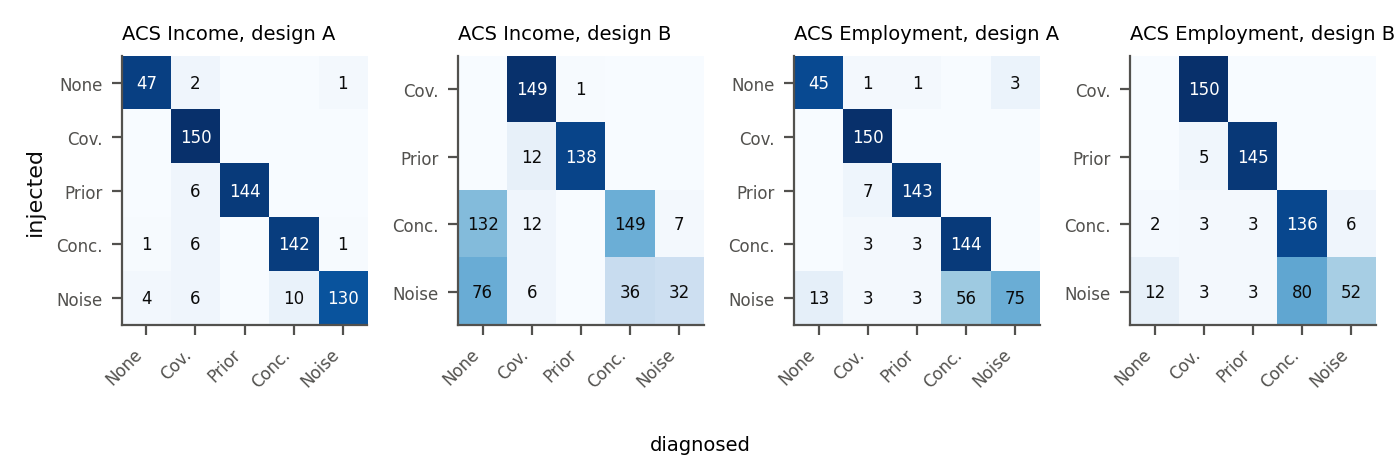
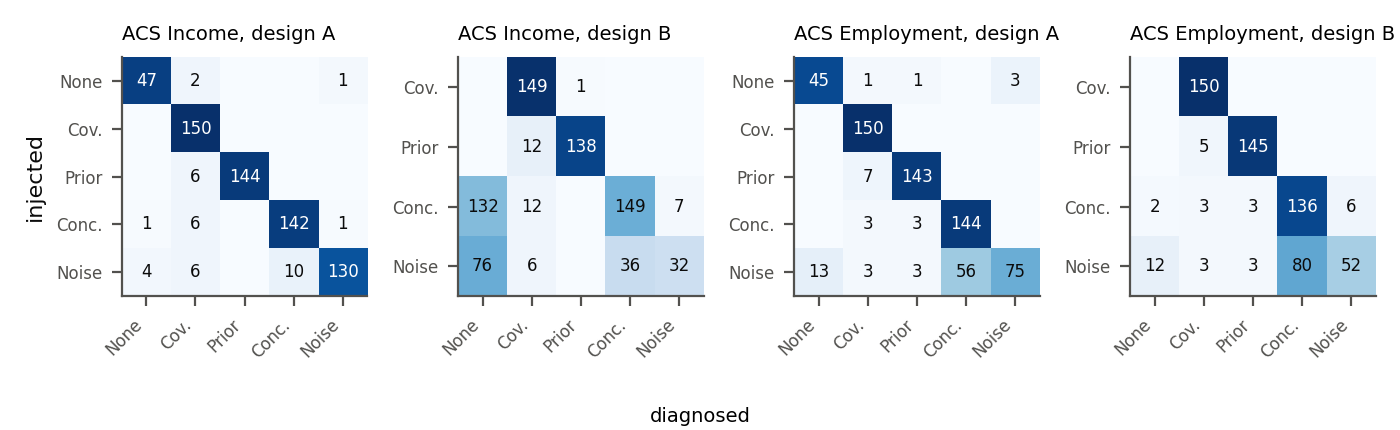
Paper build: generated keys and guards for the rewritten paper
- New keys: CLEAR-10 windows found by MMD alone, estimator error ranges,
  diagnosis false alarms by stage.
- Build fails if the paper's worded detector claims stop holding.
- Datasets table: ragged windows column that fits the text width;
  shorter timelines and confusion figures.

Claude-Session: https://claude.ai/code/session_01Q2jh3ncUT27YtGPEiV2BVS

diff --git a/examples/paper/build_artifacts.py b/examples/paper/build_artifacts.py
@@ -268,7 +268,7 @@ def datasets(R: Results) -> None:
         sizes = [nrows(w) for w in win.values()]
         c = lr["config"]
         if code in ("inc", "emp"):
-            ref, windows = "CA 2014", "CA 2015--19, 2021--23; four states 2014"
+            ref, windows = "CA 2014", "CA 2015--19 and 2021--23; TX, NY, FL, WA 2014"
             nfeat = len(c["features"]["numeric"]) + len(c["features"]["categorical"])
             classes = 2
         elif code == "gas":
@@ -288,7 +288,7 @@ def datasets(R: Results) -> None:
         ]) + " \\\\")
     write_table("tab_datasets", (
         "\\footnotesize\\setlength{\\tabcolsep}{2.5pt}\n"
-        "\\begin{tabular}{@{}llp{2.35cm}rrrrr@{}}\n\\toprule\n"
+        "\\begin{tabular}{@{}ll>{\\raggedright\\arraybackslash}p{2.45cm}rrrrr@{}}\n\\toprule\n"
         " & & & & & & \\multicolumn{2}{c}{Ref.\\ accuracy} \\\\\n\\cmidrule(l){7-8}\n"
         "Dataset & Reference & Windows & Rows & Inputs & Classes & LR & GB \\\\\n\\midrule\n"
         + "\n".join(rows) + "\n\\bottomrule\n\\end{tabular}\n"))
@@ -302,6 +302,7 @@ def window_keys(R: Results, code: str, model: str) -> None:
     alpha = d["config"]["alpha"]
     pre = code if model == "lr" else f"{code}-hgb"
     by_type: Dict[str, List[str]] = {}
+    mmd_only: List[str] = []
     for wname, w in d["windows"].items():
         k = f"{pre}-{wkey(code, wname)}"
         det = detections(w)
@@ -365,6 +366,13 @@ def window_keys(R: Results, code: str, model: str) -> None:
             R.add(f"{k}-nsensors", sum(v["n_drifted"] > 0 for v in sensors.values()))
         else:
             R.add(f"{k}-ndrift", w["localization"]["n_drifted_dimensions"])
+            # covariate verdicts that rest on the multivariate test alone: no
+            # single embedding dimension shifted significantly
+            if dg["drift_type"] == "covariate" and w["diagnosis"]["n_input_shift_dimensions"] == 0:
+                mmd_only.append(wlabel(code, wname).lstrip("b"))
+    if code == "clr":
+        R.add(f"{pre}-windownums-mmdonly", join(mmd_only) if mmd_only else "none")
+        R.add(f"{pre}-nwindows-mmdonly", len(mmd_only))
     for t, ws in by_type.items():
         R.add(f"{pre}-windows-{t.replace('_', '')}", join(ws))
         R.add(f"{pre}-windownums-{t.replace('_', '')}", join([w.lstrip("b") for w in ws]))
@@ -420,7 +428,7 @@ def real_table(R: Results) -> None:
 def timelines(R: Results) -> None:
     """Measured accuracy (both models) and the CBPE estimate (LR) over the windows of the four studies."""
     plt = mpl()
-    fig, axes = plt.subplots(2, 2, figsize=(6.6, 3.5))
+    fig, axes = plt.subplots(2, 2, figsize=(6.6, 2.95))
     for ax, code in zip(axes.flat, ("inc", "emp", "gas", "clr")):
         lr, gb = study(code, "lr"), study(code, "hgb")
         names = [k for k, w in lr["windows"].items() if w["analysis_type"] in ("control", "temporal")]
@@ -473,6 +481,9 @@ def estimators(R: Results) -> None:
             v = float(np.mean(pooled[t][e]))
             cells[e].append(v)
             R.add(f"est-bench-{t.replace('/', '').replace('_', '')}-{e}", pp(v, 2, sign=False))
+        vals = [float(np.mean(pooled[t][e])) for e, _ in ESTIMATORS]
+        R.add(f"est-bench-{t.replace('/', '')}-min", pp(min(vals), 2, sign=False))
+        R.add(f"est-bench-{t.replace('/', '')}-max", pp(max(vals), 2, sign=False))
     for code in ("inc", "emp", "gas", "clr"):
         cols.append(STUDY_TITLE[code])
         for e, _ in ESTIMATORS:
@@ -820,8 +831,16 @@ def benchmark(R: Results) -> None:
             R.add(f"det-{DETECTOR_KEY[det]}-{t.replace('_', '')}", pct(rate, 1))
             if t == "none":
                 R.add(f"det-{DETECTOR_KEY[det]}-none-ci", f"[{pct(lo, 1)}, {pct(hi, 1)}]")
+                # the paper states that no false alarm interval lies above alpha
+                if lo > float(cfg["alpha"]):
+                    raise ValueError(f"{det}: false alarm interval [{lo:.3f}, {hi:.3f}] lies above alpha; "
+                                     "revise the detection paragraph of the paper")
         det_rows.append(" & ".join(cells) + " \\\\")
     R.add("det-ncontrols", len(pooled[DETECTOR_ORDER[0]]["none"]))
+    # the paper groups KS, MMD and BBSD under one prior shift detection rate
+    prior_rates = {det: float(np.mean(pooled[det]["prior"])) for det in ("KS Test", "MMD", "BBSD")}
+    if len(set(prior_rates.values())) != 1:
+        raise ValueError(f"KS, MMD and BBSD prior shift rates differ {prior_rates}; revise the detection paragraph")
 
     # false alarms of our diagnosis on the same control windows, by the stage that raised them
     # (covariate and prior come from the label free stage, concept and label noise from the audit)
@@ -846,7 +865,7 @@ def benchmark(R: Results) -> None:
     # figures: confusion matrices of ours for the four LR configurations
     plt = mpl()
     labels = ["none", "covariate", "prior", "concept", "label_noise"]
-    fig, axes = plt.subplots(1, 4, figsize=(7.0, 2.3))
+    fig, axes = plt.subplots(1, 4, figsize=(7.0, 2.15))
     for ax, (code, design) in zip(axes, [("inc", "A"), ("inc", "B"), ("emp", "A"), ("emp", "B")]):
         ti = bench(code, design, "lr")["summary"]["type_identification"]
         rows_ = [t for t in labels if sum(ti["confusion_matrix"][t].values())]
